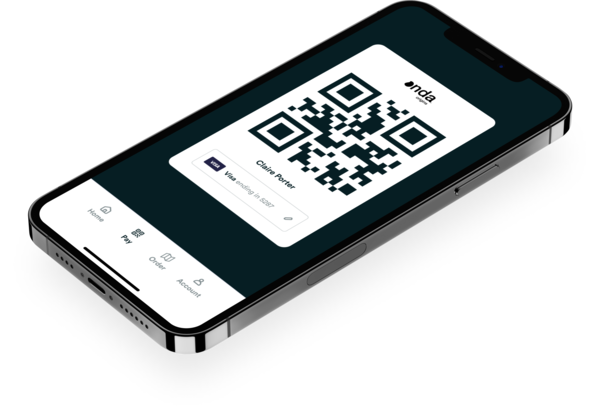
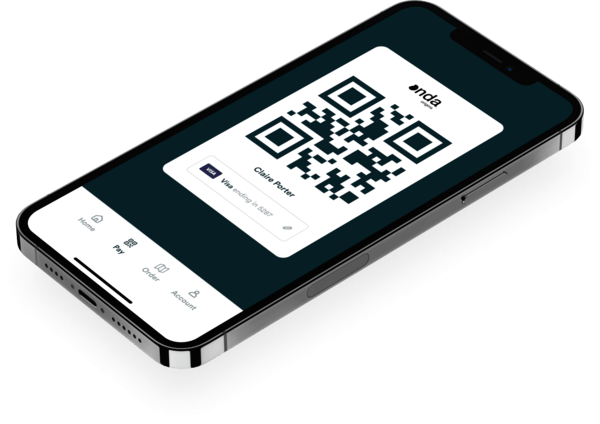
🆕 update Yave and Wizebank assets, update desktop nav

diff --git a/projects/ftsy.html b/projects/ftsy.html
@@ -95,13 +95,13 @@ body_class: projects--ftsy
   />
 </picture>
 
-<section class="project--left-image has-bg-circle-left has-xl-spacing">
+<section class="project--left-image has-bg-circle-left has-xl-spacing ftsy-product">
   <div class="section__inner--c10">
     <div class="project__image">
       <picture>
         <source
           media="(max-width: 768px)"
-          srcset="/assets/img/projects/ftsy/product-page-mobile.png"
+          srcset="/assets/img/projects/ftsy/product-page.png"
         >
         <img
           src="/assets/img/projects/ftsy/product-page.png"

diff --git a/_sass/_variables.scss b/_sass/_variables.scss
@@ -91,3 +91,9 @@ $screen-lg-desktop:          $screen-lg-min !default;
 $screen-xs-max:              ($screen-sm-min - 1) !default;
 $screen-sm-max:              ($screen-md-min - 1) !default;
 $screen-md-max:              ($screen-lg-min - 1) !default;
+
+// layout
+// -------------------------------------------
+// Grid container gutter is removed in new layout (Jan 2022), but we need a $gutter variable for
+// occasional uses
+$gutter: 20px;

diff --git a/_sass/pages/_project-ftsy.scss b/_sass/pages/_project-ftsy.scss
@@ -210,3 +210,23 @@
     }
   }
 }
+
+.ftsy-product {
+  .project__image {
+    direction: ltr;
+
+    @media only screen and
+    (min-width: $screen-sm) {
+      img {
+        max-width: 520px;
+      }
+    }
+
+    @media only screen and
+    (max-width: $screen-sm) {
+      img {
+        max-width: 300px;
+      }
+    }
+  }
+}

diff --git a/_sass/_nav.scss b/_sass/_nav.scss
@@ -59,10 +59,10 @@
 
 .desktop-nav {
   @include grid-container;
-  padding: 32px 0;
+  padding: 32px $gutter;
   position: absolute;
   top: 0;
-  width: 100%;
+  width: calc(100% - (2 * $gutter));
   z-index: 100;
 
   @media only screen and
